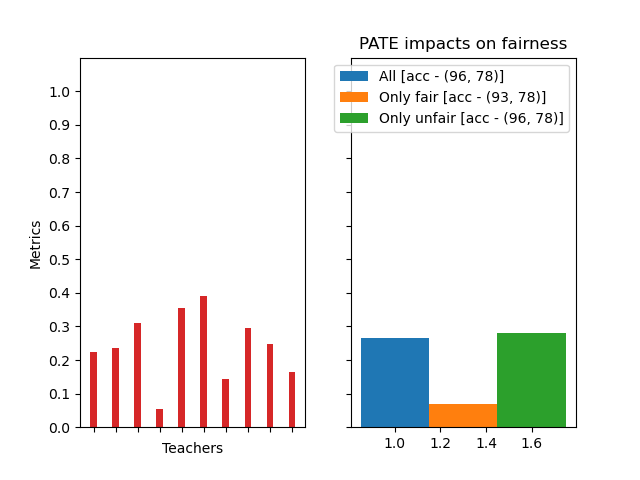
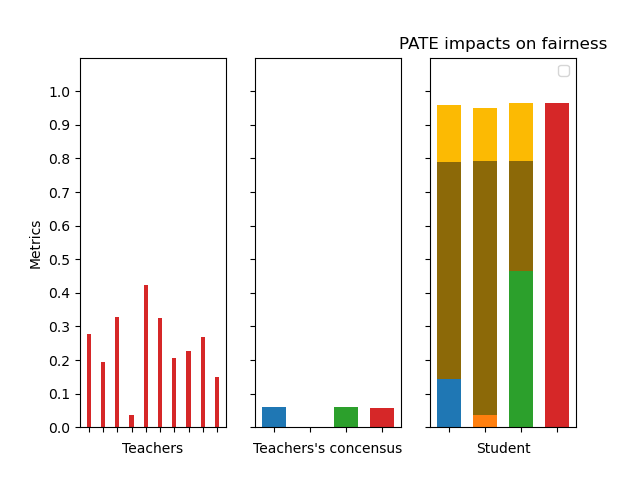
mesuring esperance

Changed region(s): [[0.125, 0.0625, 0.9375, 0.9688]]

diff --git a/src/fairness_impact_eval.py b/src/fairness_impact_eval.py
@@ -52,7 +52,7 @@ else:
 
 confs = ["All", "Only fair", "Only unfair"]
 
-fig, (ax1, ax2)= plt.subplots(1, 2, sharey=True)
+fig, (ax1, ax2, ax3)= plt.subplots(1, 3, sharey=True)
 b_width = 0.3
 x = range(len(accuracies))
 # teachers hist 
@@ -65,7 +65,8 @@ ax1.set_ylim([0,1.1])
 ax1.set_xlabel("Teachers")
 ax1.set_ylabel("Metrics")
 
-#eods = []
+xticks = ["all", "f", "uf", "wv"]
+stats = {}
 for cf in confs:
     # setting conf
     if cf != "All" and (nb_fair == 0 or nb_fair == nb_teachers):
@@ -76,33 +77,43 @@ for cf in confs:
         x = 1
     elif cf == "Only fair":
         aggregator = only_fair
-        x =1 + b_width
+        x += 3*b_width/2
     else:
         if nb_fair == nb_teachers:
             continue
         aggregator = only_unfair
-        x =1 + 2*b_width
-    y_train = np.asarray(aggregator(x_train))
-    yhat_test = np.asarray(aggregator(x_test))
+        x += 3*b_width/2
+    y_train, _ = aggregator(x_train)
+    yhat_test, consensus = aggregator(x_test)
     st_model = train_student(x_train, y_train, verbose=False)
-    ev1, ev2 = eval_student_model(st_model, x_test, y_test, yhat_test)
+    ev1, ev2 = eval_student_model(st_model, x_test, y_test, yhat_test, verbose=False)
     st_stats = fairness(st_model, x_test, yhat_test, s_test)
-    #ax2.plot([0, 1], [ev2[1]])
-    ax2.bar([x], st_stats["EOD"], width = b_width, color=colors[color_index],label=f"{cf} [acc - {int(ev1[1]*100), int(ev2[1]*100)}]")
+    stats[cf] = [ev1[1], ev2[1], st_stats["EOD"]]
+    ax2.bar([x], consensus, width = b_width, color=colors[color_index])
     color_index += 1
 
-""" 
-aggregator = weighed_vote
-y_train = np.asarray(aggregator(x_train))
-yhat_test = np.asarray(aggregator(x_test))
+x=1
+color_index = 0
+for cf, stat in stats.items():
+    ax3.bar([x], stat, width = b_width, color=["#fcba03", "#8c6908", colors[color_index]], bottom=[0,0,0], label=["ACC-Labeled data", "ACC - True labels", cf])
+    x += 3*b_width/2
+    color_index+=1
 
+ax3.set_xlabel("Student")
+aggregator = weighed_vote
+y_train, _= aggregator(x_train)
+yhat_test, consensus = aggregator(x_test)
 st_model = train_student(x_train, y_train, verbose=False)
 st_stats = fairness(st_model, x_test, yhat_test, s_test)
+ev1, ev2 = eval_student_model(st_model, x_test, y_test, yhat_test, verbose=False)
+stat = [ev1[1], ev2[1], st_stats["EOD"]]
+ax3.bar([x], stat, width = b_width, color=["#fcba03", "#8c6908", colors[color_index]],  label=["ACC-Labeled data", "ACC - True labels", "Weighed_vote"])
+ax2.bar([x], consensus, width = b_width, color=colors[color_index])
 
-ax2.bar([1 + 3*b_width], st_stats["EOD"], width = b_width, color=colors[3], label="weighed vote")
-"""
-#ax2.set_xticks([1 + b_width], ['']) 
+ax3.set_xticks([1 + i*3*b_width/2 for i in range(len(xticks))], xticks) 
+ax2.set_xticks([1 + i*3*b_width/2 for i in range(len(xticks))], xticks) 
 
+ax2.set_xlabel("Teachers's concensus")
 plt.title(f"PATE impacts on fairness")
 plt.legend()
 path = "../img/archive_" + str(nb_teachers) + "/"

diff --git a/src/aggregator.py b/src/aggregator.py
@@ -62,10 +62,12 @@ def plurality(data_to_label, voters=[]):
     preds = np.asarray(preds, dtype=np.int32)
     # voting
     labels = []
+    consent = []
     for x in range(np.shape(preds)[1]):
         n_y_x = np.bincount(preds[:,x])
+        consent.append(np.var(preds[:,x]))
         labels.append(np.argmax(n_y_x))
-    return labels
+    return np.asarray(labels), np.mean(consent)
 
 methode = plurality
 def only_fair(data_to_label):
@@ -101,14 +103,16 @@ def weighed_vote(data_to_label, voters=[], fairness = fairness_metrics):
     preds = np.asarray(preds, dtype=np.int32)
     # voting
     labels = []
+    consent = []
     for x in range(np.shape(preds)[1]):
         pred = list(preds[:,x])
         for i in range(len(pred)):
             if fairness[i] < 0.1:
                 pred.append(pred[i])
+        consent.append(np.var(pred))
         n_y_x = np.bincount(pred)
         labels.append(np.argmax(n_y_x))
-    return labels
+    return np.asarray(labels), np.mean(consent)
 
 
 

diff --git a/src/teachers.py b/src/teachers.py
@@ -27,7 +27,7 @@ def define_model(input_shape, index=0):
     
     return model
 
-def train_teachers(subsets, nb_tchrs, nb_epochs=100):
+def train_teachers(subsets, nb_tchrs, nb_epochs=60):
     fi = []
 
     i = 0
@@ -49,7 +49,7 @@ def train_teachers(subsets, nb_tchrs, nb_epochs=100):
 def wrapper(args):
     return train_teacher(*args)
 
-def train_teacher(subset, index, nb_epochs=100):
+def train_teacher(subset, index, nb_epochs=60):
     x_train, _, y_train, _, _, _ = subset
     x_train, y_train = np.array(x_train), np.array(y_train)
 
